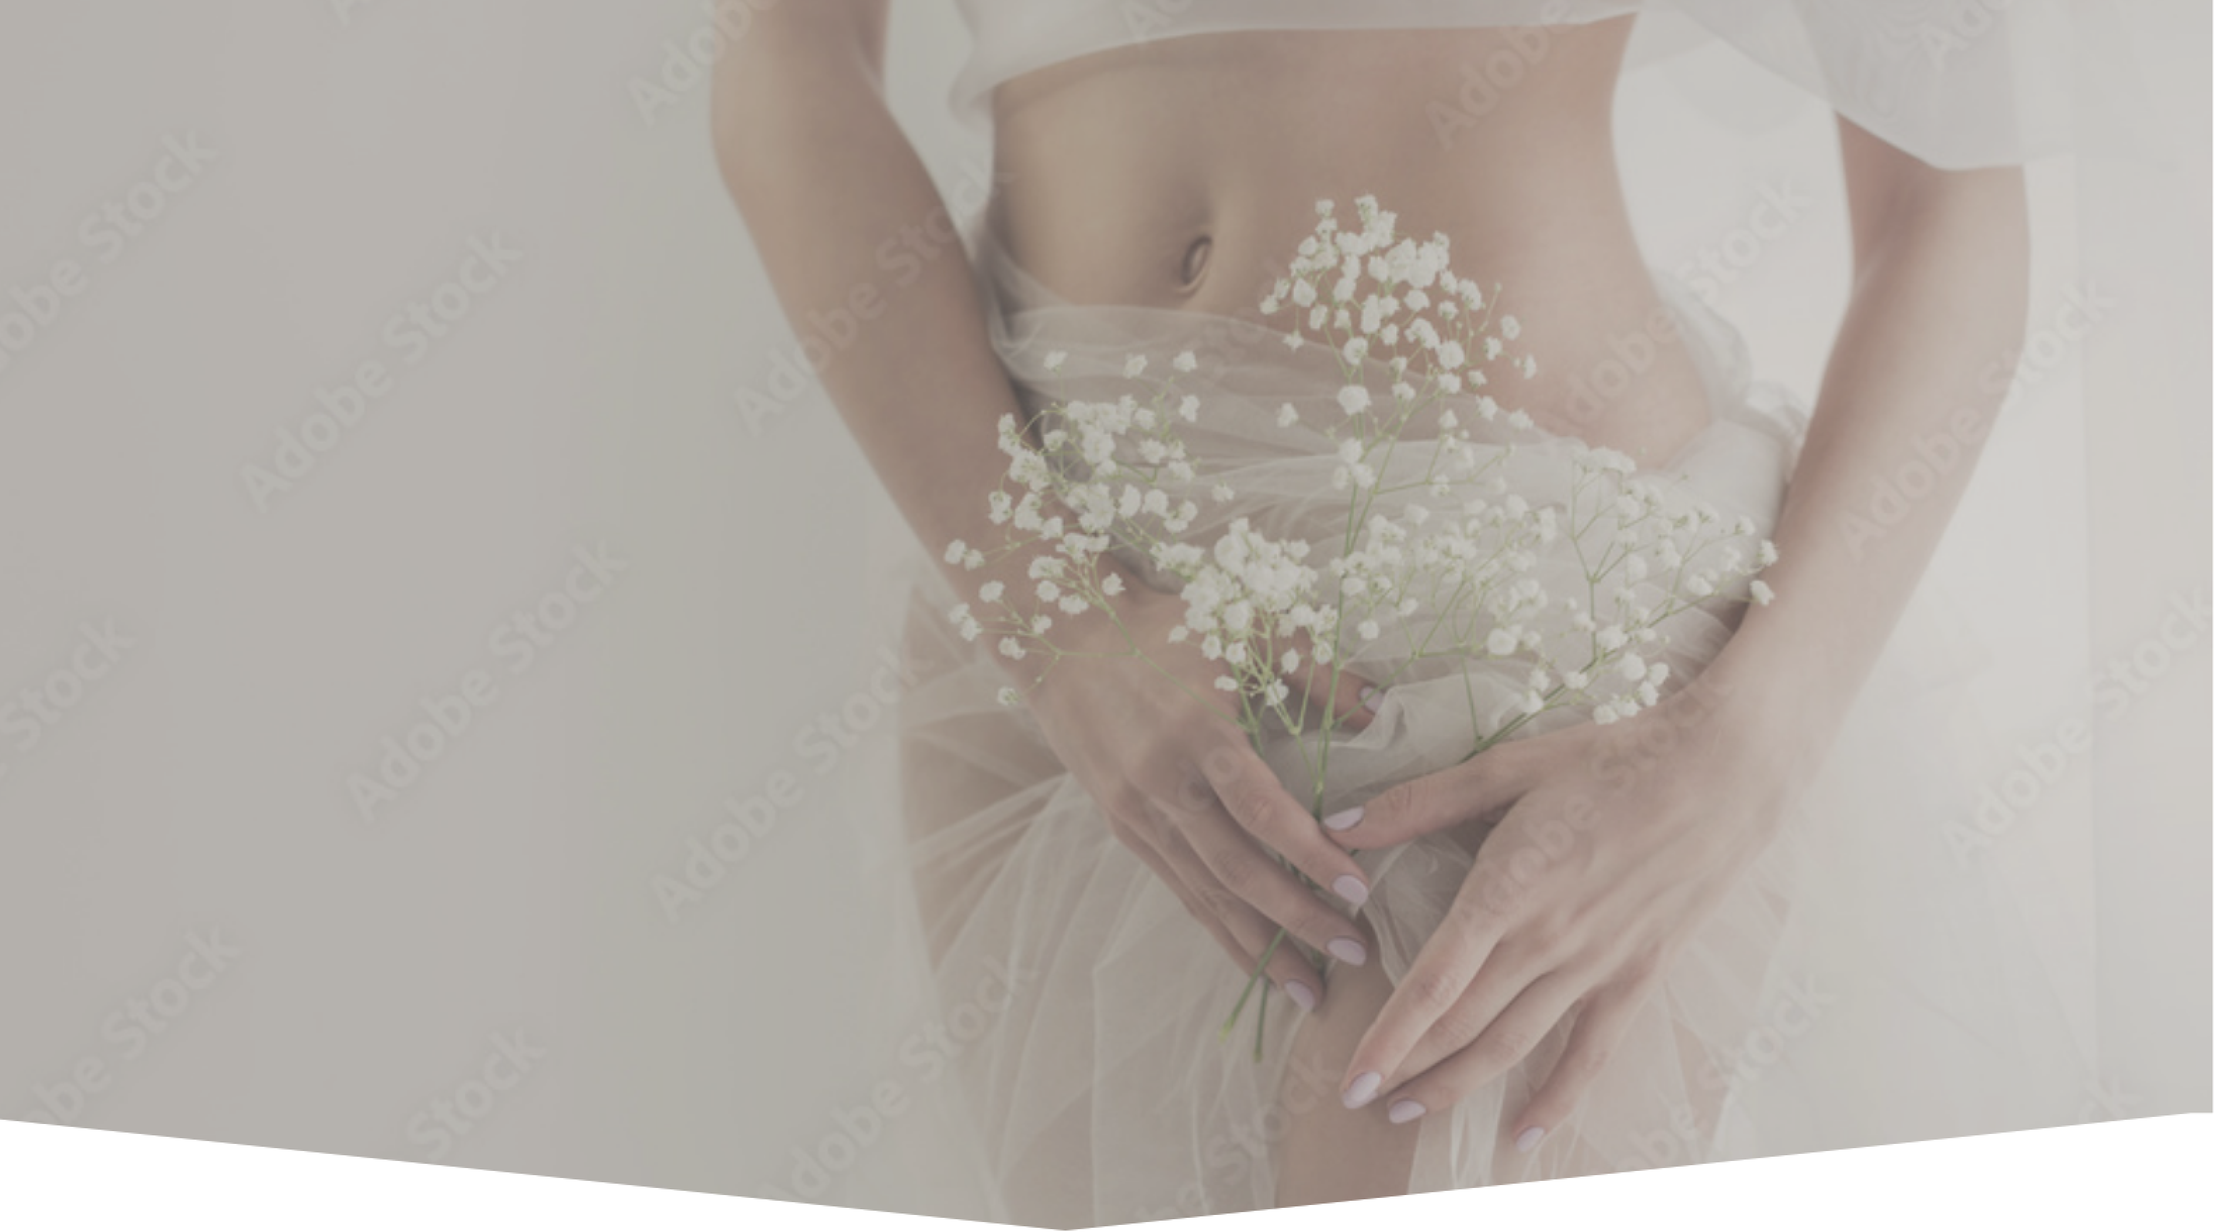
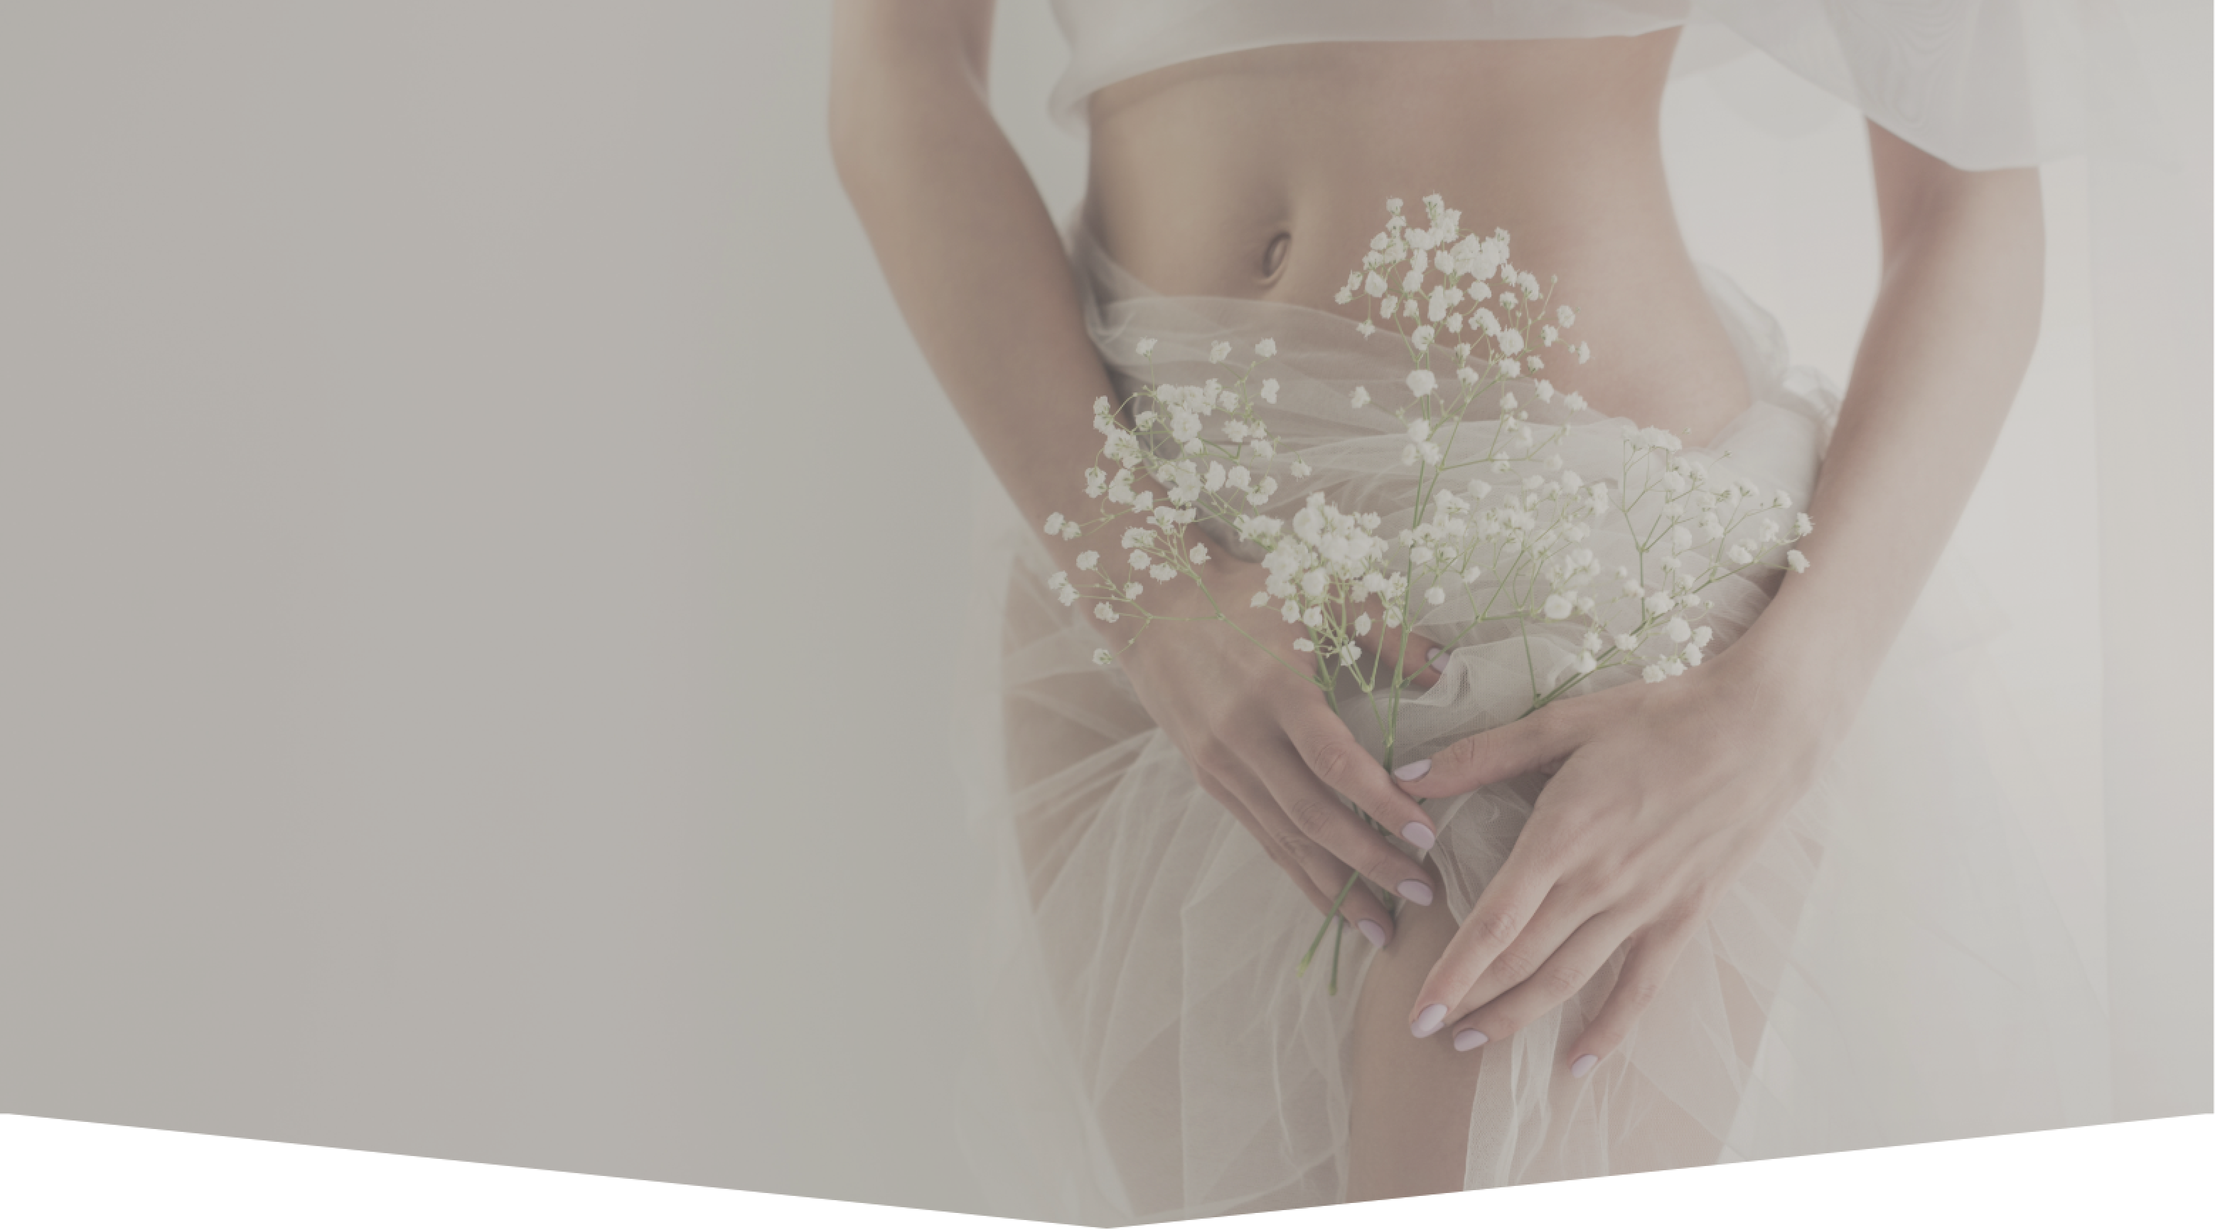
2024/10/23

diff --git a/src/index.html b/src/index.html
@@ -64,7 +64,7 @@
     --------------------------------->
     <header class="header">
         <h1 class="header__logo">
-            <img src="./assets/images/common/header-logo.svg" alt="渋谷あおぞらクリニック 美容外科・美容皮膚科" loading="lazy">
+            <img src="./assets/images/common/logo.webp" alt="渋谷あおぞらクリニック 美容外科・美容皮膚科" loading="lazy">
         </h1>
     </header>
 
@@ -112,7 +112,7 @@
                     <p class="doctor__text">知識豊富な女性医師<br class="u-mobile"><span>が全ての施術を担当します。</span></p>
                 </div>
                 <div class="doctor__buttons button">
-                    <a href="" target="_blank">
+                    <a href="https://lstep.app/XccSwb0" target="_blank">
                         <div class="button__box">
                             <img class="button__comment" src="./assets/images/common/button-text-white.png" alt="まずはお気軽にご相談を" loading="lazy">
                             <button class="button__item button__item--trust-color">
@@ -230,7 +230,7 @@
                         <div class="method__bottom">
                             <p class="method__recommendation">そんなあなたには</p>
                             <div class="method__buttons button button--block">
-                                <a href="" target="_blank">
+                                <a href="#worries">
                                     <button class="button__item--method">
                                         <span>小陰唇縮小術</span>
                                     </button>
@@ -264,7 +264,7 @@
                         <div class="method__bottom">
                             <p class="method__recommendation">そんなあなたには</p>
                             <div class="method__buttons button button--block">
-                                <a href="" target="_blank">
+                                <a href="#improvement">
                                     <button class="button__item--method button__item--brown">
                                         <span>インティマレーザー</span>
                                     </button>
@@ -283,7 +283,7 @@
     <!------------------------------- 
     あなたのそのお悩み 渋谷あおぞらクリニックの小陰唇縮小術で改善できます
     --------------------------------->
-    <section class="worries">
+    <section id="worries" class="worries">
         <div class="worries__inner inner">
             <div class="worries__title section-title">
                 <p class="section-title__head">あなたのそのお悩み</p>
@@ -408,7 +408,7 @@
                             </tbody>
                         </table>
                         <div class="hospital__buttons button">
-                            <a href="" target="_blank">
+                            <a href="https://lstep.app/XccSwb0" target="_blank">
                                 <div class="button__box">
                                     <img class="button__comment" src="./assets/images/common/button-text-pink.png" alt="まずはお気軽にご相談を" loading="lazy">
                                     <button class="button__item button__item--trust-color">
@@ -478,7 +478,7 @@
                             </tbody>
                             </table>
                         <div class="hospital__buttons button">
-                            <a href="" target="_blank">
+                            <a href="https://lstep.app/XccSwb0" target="_blank">
                                 <div class="button__box">
                                     <img class="button__comment" src="./assets/images/common/button-text-pink.png" alt="まずはお気軽にご相談を" loading="lazy">
                                     <button class="button__item button__item--trust-color">
@@ -569,8 +569,8 @@
                         <div class="accordion__textBox accordion__textBox--aline">
                             <p class="accordion__head">A</p>
                             <p class="accordion__question accordion__question--text">
-                                当院では基本的に小陰唇縮小術を静脈麻酔下で行っています。<br>
-                                静脈麻酔は手術の直前に点滴を取らせていただき、そこからお薬を入れて眠っていただくという麻酔なので、手術中は意識がない状態で進行していきます。局所麻酔の痛みも感じずに終了するので、ご安心ください。<br class="u-mobile">術後の痛みは鎮痛薬で抑えられる程度の方がほとんどです。翌日もお仕事があるなど心配な方は、72時間痛みを抑える効果が持続する「エクスパレル」という麻酔を使うのも良いでしょう。
+                                回復期間は個人差がありますが、多くの場合、痛みや血などの症状が出るのは最初の数日くらいです。<br>
+                                こうした症状も、横になって休むほどではないことが大半なので、翌日からお仕事に戻る方もたくさんいらっしゃいます。
                             </p>
                         </div>
                     </div>
@@ -591,8 +591,9 @@
                         <div class="accordion__textBox accordion__textBox--aline">
                             <p class="accordion__head">A</p>
                             <p class="accordion__question accordion__question--text">
-                                当院では基本的に小陰唇縮小術を静脈麻酔下で行っています。<br>
-                                静脈麻酔は手術の直前に点滴を取らせていただき、そこからお薬を入れて眠っていただくという麻酔なので、手術中は意識がない状態で進行していきます。局所麻酔の痛みも感じずに終了するので、ご安心ください。術後の痛みは鎮痛薬で抑えられる程度の方がほとんどです。翌日もお仕事があるなど心配な方は、72時間痛みを抑える効果が持続する「エクスパレル」という麻酔を使うのも良いでしょう。
+                                小陰唇縮小術は、傷跡が比較的きれいに治りやすい手術として有名です。<br>
+                                とはいえ、術後の状態は医師の技術により大きく差が出る部分でもあります。 「他のクリニックでこの手術を受けたが、傷跡が気になる違和感がある」「左右差があるのに考えすぎと執刀医に言われてしまった」などのご事情で他院修正を行うことがとても多いです。<br>
+                                ですので、クリニックや医師選びには慎重になるべきです。症例写真を見せてもらったり、カウンセリングでいろいろな質問をしたりして、"この先生なら安心できる"と思える医師を選んでください。
                             </p>
                         </div>
                     </div>
@@ -621,7 +622,7 @@
                 </li>
             </ul>
             <div class="fag__buttons button">
-                <a href="" target="_blank">
+                <a href="https://lstep.app/XccSwb0" target="_blank">
                     <div class="button__box">
                         <img class="button__comment" src="./assets/images/common/button-text-pink.png" alt="まずはお気軽にご相談を" loading="lazy">
                         <button class="button__item button__item--trust-color">
@@ -690,7 +691,7 @@
     <!------------------------------- 
     あなたのそのお悩み 渋谷あおぞらクリニックのインティマレーザーで改善できます
     --------------------------------->
-    <section class="improvement">
+    <section id="improvement" class="improvement">
         <div class="improvement__title section-title">
             <p class="section-title__head">あなたのそのお悩み</p>
             <h2 class="section-title__jp section-title__jp--improvement">渋谷あおぞらクリニックの<br><span class="marker  marker--darkBrown">インティマレーザーで改善できます</span></h2>
@@ -955,7 +956,7 @@
 
 
             <div class="spots__buttons button">
-                <a href="" target="_blank">
+                <a href="https://lstep.app/XccSwb0" target="_blank">
                     <div class="button__box">
                         <img class="button__comment" src="./assets/images/common/button-text-pink.png" alt="まずはお気軽にご相談を" loading="lazy">
                         <button class="button__item button__item--trust-color">
@@ -994,7 +995,8 @@
                         <div class="accordion__textBox accordion__textBox--aline">
                             <p class="accordion__head">A</p>
                             <p class="accordion__question accordion__question--text">
-                                インティマレーザーはお体への負担が少なくダウンタイムが短い施術ですが、施術後数日間は少し気を付けて過ごしていただく必要があります。特に、性行為は1週間程度控えることが推奨されます。また、施術後に軽い違和感や痛みが生じることがありますが、通常は数日以内に改善します。万が一、症状が長引く場合や、強い痛みがある場合は、すぐにクリニックにご連絡ください。
+                                インティマレーザー治療の効果は個人差がありますが、通常は月に一度、数回の施術を重ねることで顕著な改善が見られます。<br>
+                                一度きりとなってしまうと”効果なし”と感じてしまうリスクがあり、持続的な効果を期待するのであれば3回程度は繰り返してみることが推奨されます。
                             </p>
                         </div>
                     </div>
@@ -1022,7 +1024,7 @@
                 </li>
             </ul>
             <div class="fag__buttons button">
-                <a href="" target="_blank">
+                <a href="https://lstep.app/XccSwb0" target="_blank">
                     <div class="button__box">
                         <img class="button__comment" src="./assets/images/common/button-text-pink.png" alt="まずはお気軽にご相談を" loading="lazy">
                         <button class="button__item button__item--trust-color">
@@ -1060,20 +1062,20 @@
     <!------------------------------- 
     アクセス 
     --------------------------------->
-    <section class="top-access access">
+    <section class="top-access access ">
         <div class="access__inner inner">
             <div class="access__title section-title">
                 <h2 class="section-title__jp section-title__jp--font">アクセス</h2>
             </div>
         
-            <figure class="access__img">
+            <figure class="access__img ">
                 <picture loading="lazy">
                     <source srcset="./assets/images/common/access.jpg" media="(min-width: 768px)">
                     <img src="./assets/images/common/access-sp.jpg" alt="クリニックの受付" loading="lazy">
                 </picture>
             </figure>
 
-            <div class="access__content">
+            <div class="access__content jp-access">
                 <div class="access__map">
                     <iframe src="https://www.google.com/maps/embed?pb=!1m18!1m12!1m3!1d3241.7286527910633!2d139.6948445763948!3d35.65905647259442!2m3!1f0!2f0!3f0!3m2!1i1024!2i768!4f13.1!3m3!1m2!1s0x60188d5a42f6fc23%3A0xfc7d0b0d49554f87!2z5riL6LC344GC44GK44Ge44KJ44Kv44Oq44OL44OD44Kv576O5a655aSW56eR44O7576O5a6555qu6Iaa56eR!5e0!3m2!1sja!2sjp!4v1729350676798!5m2!1sja!2sjp" width="600" height="450" style="border:0;" allowfullscreen="" loading="lazy" referrerpolicy="no-referrer-when-downgrade"></iframe>
                 </div>
@@ -1116,7 +1118,7 @@
     CTA
     --------------------------------->
     <div class="cta__buttons button button--block">
-        <a href="" target="_blank">
+        <a href="https://lstep.app/XccSwb0" target="_blank">
             <div class="button__box button__box--cta">
                 <img class="button__comment button__comment--cta" src="./assets/images/common/button-text-pink.png" alt="まずはお気軽にご相談を" loading="lazy">
                 <button class="button__item button__item--cta">

diff --git a/src/js/script.js b/src/js/script.js
@@ -17,20 +17,21 @@ document.querySelectorAll('.accordion__header').forEach(button => {
     });
 });
 
-// CTA
 document.addEventListener("scroll", function () {
     const doctorButton = document.querySelector(".doctor__buttons");
     const ctaButtons = document.querySelector(".cta__buttons");
+    const fagButtons = document.querySelector(".jp-access"); // または footer
 
-    if (doctorButton) {
+    if (doctorButton && fagButtons) {
         const doctorButtonBottom = doctorButton.getBoundingClientRect().bottom;
+        const fagButtonsTop = fagButtons.getBoundingClientRect().top; // または footer
         const windowHeight = window.innerHeight;
 
-        // doctor__buttons が画面の上に完全に消えたら表示
-        if (doctorButtonBottom < 0) {
-            ctaButtons.classList.add("show");  // クラス追加でふわっと表示
+        // doctor__buttons が画面の上に完全に消えたらCTAボタンを表示
+        if (doctorButtonBottom < 0 && fagButtonsTop > windowHeight) {
+            ctaButtons.classList.add("show");  // クラス追加でCTAボタンを表示
         } else {
-            ctaButtons.classList.remove("show"); // クラス削除で非表示
+            ctaButtons.classList.remove("show"); // クラス削除でCTAボタンを非表示
         }
     }
 });

diff --git a/src/sass/module/_accordion.scss b/src/sass/module/_accordion.scss
@@ -112,16 +112,23 @@
 
 
 .accordion__content {
-    display: none;
-    padding: rem(13.5) rem(0) rem(23) rem(19);
-    background-color: #fff;
-    font-size: rem(14);
-    color: #5e5e5e;
-    border-radius: 0 0 rem(8) rem(8);
+    display: block; /* デフォルトで block にする */
+    max-height: 0; /* 初期状態は高さゼロ */
+    overflow: hidden; /* コンテンツが溢れないようにする */
+    opacity: 0; /* 初期状態は透明にする */
+    padding: 0; /* 初期はパディングもゼロ */
+    transition: max-height 0.7s ease, opacity 0.7s ease, padding 0.7s ease; /* アニメーションの設定 */
+}
+
+.accordion__item.active .accordion__content {
+    max-height: 500px; /* 十分に大きい値を指定。コンテンツの高さに応じて調整可能 */
+    opacity: 1; /* 表示する */
+    padding: rem(13.5) rem(0) rem(23) rem(19); /* パディングを元に戻す */
     @include mq(md) {        
         padding: rem(34) rem(38) rem(27.5);
     }
 }
+
 
 .accordion__item.active .accordion__content {
     display: block;

diff --git a/src/sass/module/_spots.scss b/src/sass/module/_spots.scss
@@ -39,7 +39,7 @@ label {
     float: left;
     cursor: pointer;
     order: -1;
-    width: 121px; /* タブの幅を243pxに統一 */
+    width: 121.6px; /* タブの幅を243pxに統一 */
     text-align: center; /* タブのテキストを中央に配置 */
     color: $brown;
     font-size: rem(15);
@@ -131,13 +131,13 @@ input:checked + .btn_tab + .spots__content .aaa {
 /*コンテンツ部分*/
 .spots__content {
     padding: rem(36.5) 0 rem(57.5);
-    border-radius: 0 10px 10px 10px;
     display: none;
     width: 100%;
     background: #E7CCE6;
     box-shadow: 0px 2px 3px rgba(0, 0, 0, 0.2), 0px -2px 3px rgba(0, 0, 0, 0);
     @include mq(md) {
         padding: rem(95.5) 0 rem(88.6);
+        border-radius: 0 10px 10px 10px;
     }
 }
 

diff --git a/src/sass/module/_worries.scss b/src/sass/module/_worries.scss
@@ -58,7 +58,7 @@
     background-color: $white;
     border-radius: rem(9.5);
     @include mq(md) {
-        padding: rem(53) rem(50) rem(42.2);
+        padding: rem(53) rem(40) rem(42.2);
         border-radius: rem(19);
     }
 }
@@ -117,7 +117,7 @@
         width: 186px;
         height: 186px;
         object-fit: cover;
-        margin: 0 auto;        
+        margin: rem(30) auto 0;        
     }
 }
 

diff --git a/src/sass/module/_spots-first.scss b/src/sass/module/_spots-first.scss
@@ -57,14 +57,15 @@
 
 
 .spots-first__tabs {
-    display: flex;flex-wrap: wrap;
+    display: flex;
+    flex-wrap: wrap;
+    justify-content: center;
     align-items: center;
     gap: rem(3);
     text-align: center;
     margin-top: rem(15);
     padding: 0 14px;
     @include mq(md) {
-        justify-content: center;
         margin-top: rem(26.8);
         padding:0;
         gap: 0 rem(12);

diff --git a/src/sass/module/_fv.scss b/src/sass/module/_fv.scss
@@ -14,7 +14,7 @@
     background-position: center;
     background-repeat: no-repeat;
     background-size: cover;
-    margin-top: rem(-10);    
+    margin-top: rem(-30);    
     padding-bottom: rem(150);
     color: $white;
     position: relative;
